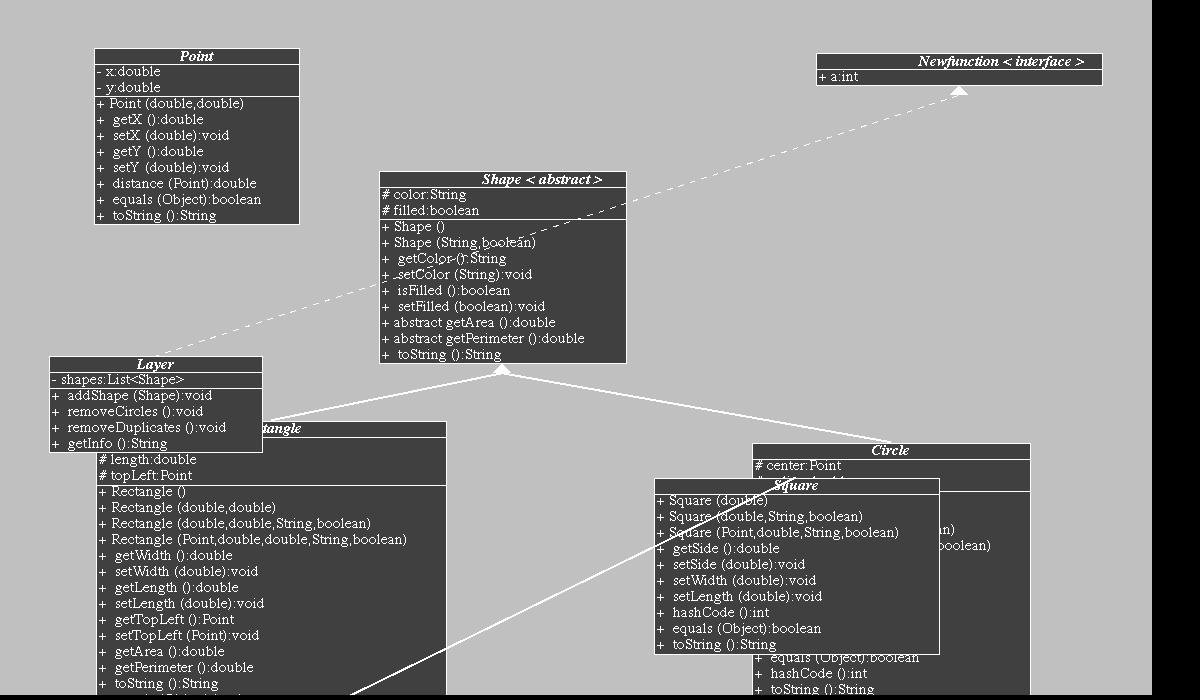
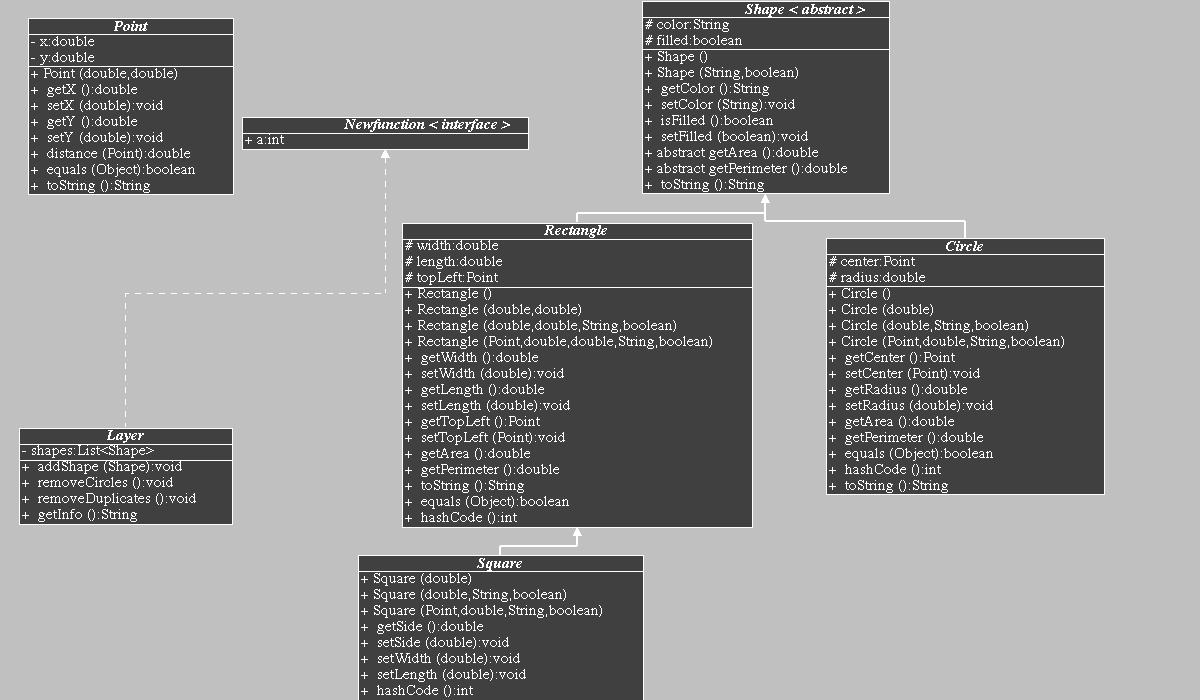
ad new arrow

diff --git a/src/analyst/Draw.java b/src/analyst/Draw.java
@@ -55,11 +55,19 @@ public class Draw extends JPanel implements ActionListener, MouseMotionListener,
                                             BasicStroke.JOIN_BEVEL);
                                     g2.setStroke(bs1);
                                 }
-                                g2.drawLine((int) (table.position.getX() + table.width / 2), (int) table.position.getY(), (int) (j.position.getX() + j.width / 2), (int) (j.position.getY() + j.height + 10));
+                                int x=(int) (table.position.getX() + table.width / 2);
+                                int y=(int) table.position.getY();
+                                int _x=(int) (j.position.getX() + j.width / 2);
+                                int _y=(int) (j.position.getY() + j.height + 10);
+
+                                g2.drawLine(_x, y + (_y - y)/2, _x, _y);
+                                g2.drawLine(x, y + (_y - y)/2, _x, y + (_y - y)/2);
+                                g2.drawLine(x, y, x, y + (_y - y)/2);
+
                                 Path2D mypath = new Path2D.Double();
                                 mypath.moveTo((int) (j.position.getX() + j.width / 2), (int) (j.position.getY() + j.height));
-                                mypath.lineTo((int) (j.position.getX() + j.width / 2 + 10), (int) (j.position.getY() + j.height + 10));
-                                mypath.lineTo((int) (j.position.getX() + j.width / 2 - 10), (int) (j.position.getY() + j.height + 10));
+                                mypath.lineTo((int) (j.position.getX() + j.width / 2 + 5), (int) (j.position.getY() + j.height + 10));
+                                mypath.lineTo((int) (j.position.getX() + j.width / 2 - 5), (int) (j.position.getY() + j.height + 10));
                                 mypath.closePath();
                                 g2.setPaint(Color.WHITE);
                                 g2.fill(mypath);

diff --git a/src/analyst/Table.java b/src/analyst/Table.java
@@ -4,11 +4,13 @@ import java.awt.*;
 import java.awt.event.MouseEvent;
 import java.awt.event.MouseWheelEvent;
 import java.awt.geom.Rectangle2D;
+import java.util.ArrayList;
 import java.util.List;
 
 public class Table {
     ObjectClasses objectclass;
-    public Point position;
+    public Table parentTable;
+    public Point position,top,bot;
     public double width;
     public double height;
     Rectangle2D Rect_frame;
@@ -32,7 +34,15 @@ public class Table {
         }
       return new Double[]{maxWidth+20, height};
     }
-
+    public void findParentTable(ArrayList<Table> tables) {
+        if (objectclass.parent.isEmpty()) return;
+        for (Table table : tables) {
+            if (table.objectclass.name.equals(objectclass.parent.get(0))) {
+                parentTable = table;
+                return;
+            }
+        }
+    }
     public void draw(Graphics g) {
         Graphics2D g2 = (Graphics2D) g;
         //Font font = g.getFont().deriveFont(Font.BOLD);
@@ -51,6 +61,8 @@ public class Table {
         width = maxWidth;
         height = titleSize[1] + fieldSize[1] + methodSize[1];
         Rect_frame = new Rectangle2D.Double(position.getX(), position.getY(), width, height);
+        top = new Point((int)(position.getX() + width/2), (int)position.getY());
+        bot = new Point((int)(position.getX() + width/2), (int)(position.getY() + height));
 
         g2.setColor(Color.DARK_GRAY);       //draw Rect
         g2.fill(Rect_frame);
